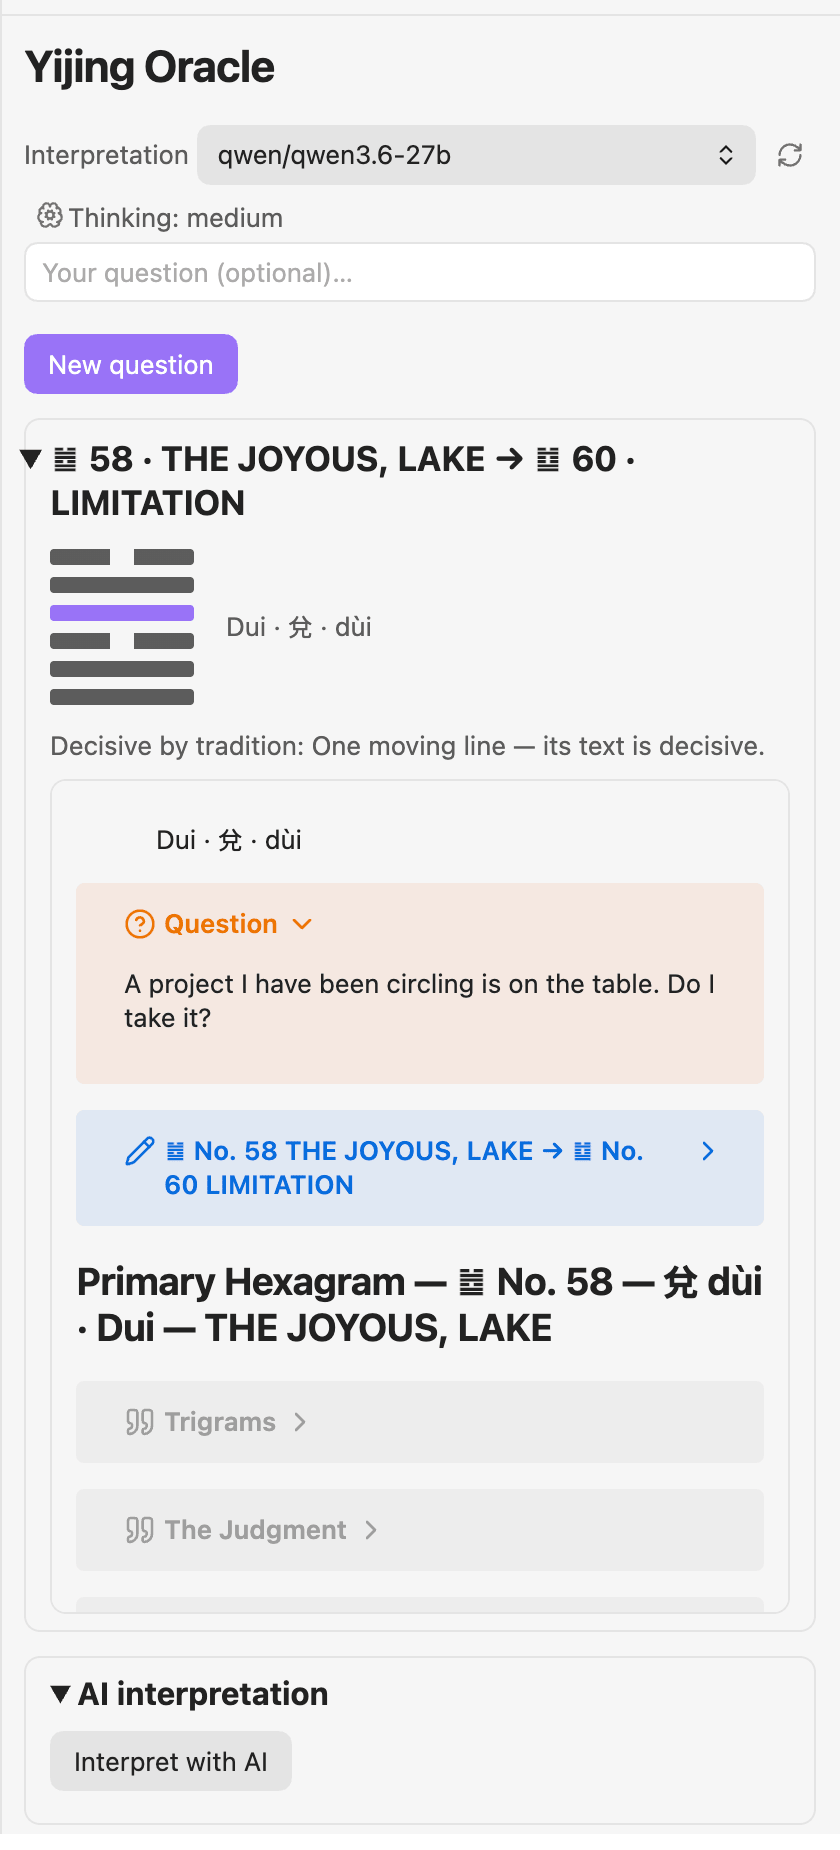
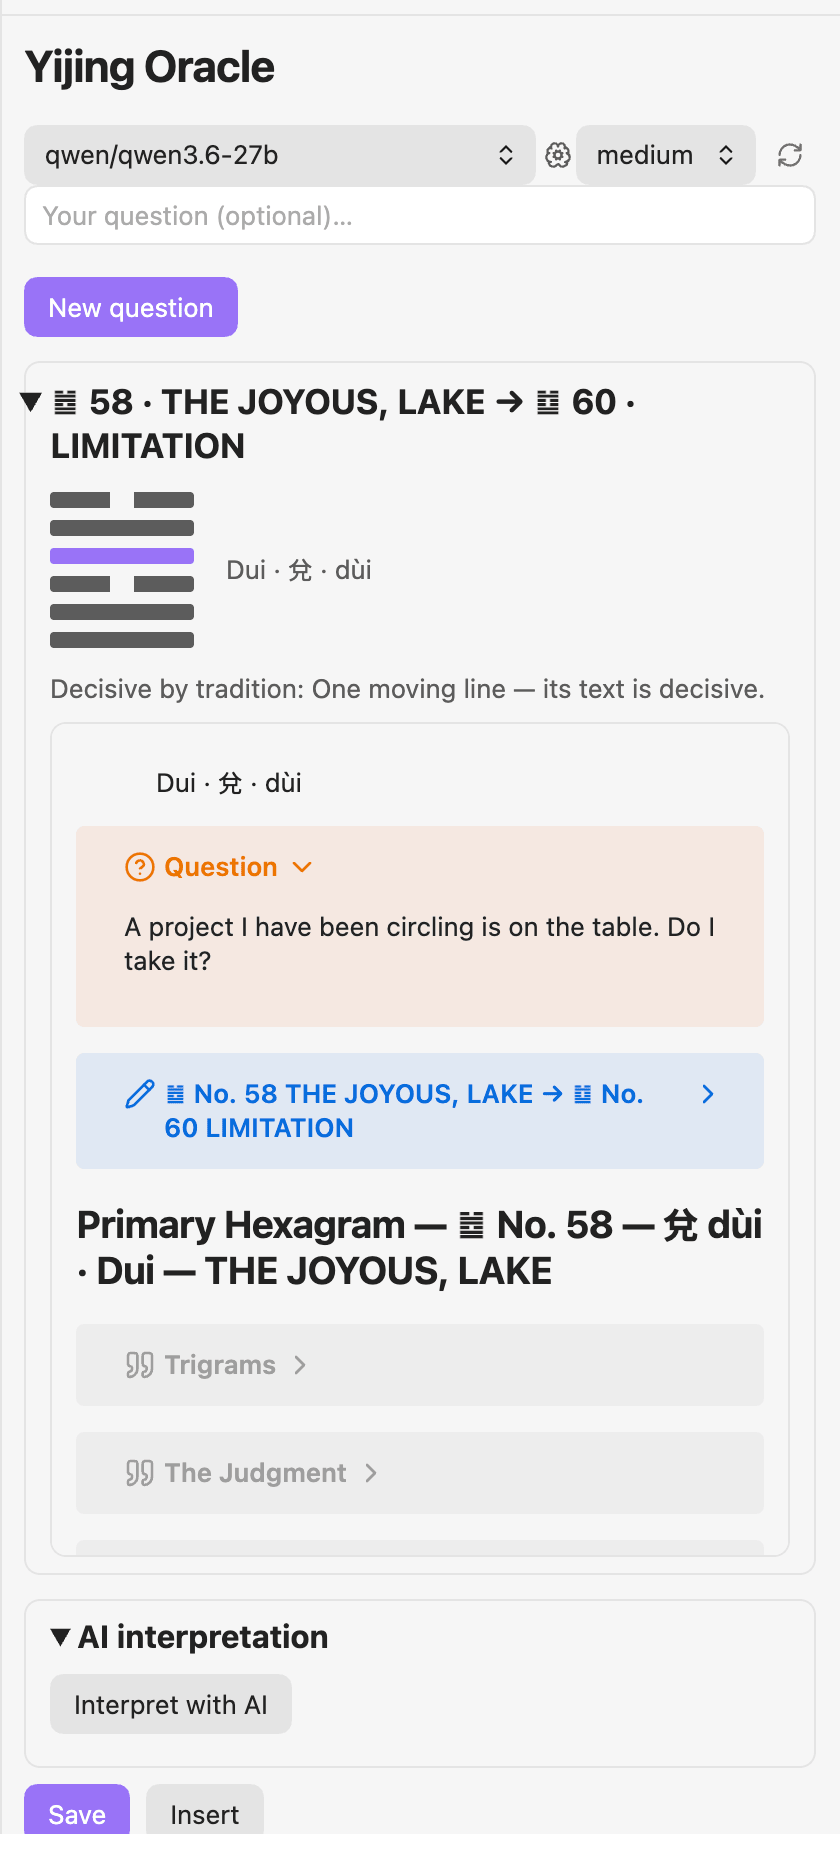
docs: Modellzeile ohne Beschriftung mit Stufen-Dropdown (Kit 0.74.0), CHANGELOG, neue hero.png und panel.png

diff --git a/AGENTS.md b/AGENTS.md
@@ -66,7 +66,7 @@ Prüfpunkte F1–F4 im GUI-Smoke messen genau das.
 
 **Die Bilderzeugung gehört `local-image-generator`, nicht diesem Plugin (Entscheidung Johannes 2026-10-13, umgesetzt in Welle 22).** `readImageGenApi` aus dem Kit (`src/vendor/kit-obsidian/capability-apis.ts`, seit Welle 24; vorher `src/obsidian/image-gen.ts`) liest den Anbieter bei jedem Zeichnen frisch aus dem Plugin-Register und prüft die Form mit `isImageGenProviderApi` (Kit-Vertrag `src/vendor/kit/image-gen-provider.ts`); Fehlertexte kommen aus `imageGenErrorText` (Kit `provider-error-texts`), nie eine Versionszahl allein und nie Interna von LIG. `view.ts` ruft `generateImage(prompt, { targetFolder })`; der Anbieter schreibt die Datei in den Vault (Zielordner: der Anhänge-Ordner, den Obsidian für eine Note im Lese-Ordner wählen würde), `CurrentCast.artwork` hält den Pfad, die Vorschau liest `vault.getResourcePath`, `reading-writer.ts` bettet die vorhandene Datei ein und kopiert nichts. Ein ungespeichertes Bild ist Wegwerfware (`discardArtwork`: neues Bild, neuer Wurf → `trashFile`), ein von einer Note eingebettetes nie. Der Kasten fehlt ohne Anbieter. `ImageSettings` ist nur noch `styleSuffix`; `normalizeImageSettings` wirft die Schlüssel der früheren Eigenbau-Anbindung (A1111, ComfyUI) beim Laden weg. Der Kit-Vertrag kennt weder Seed noch Größe noch Negativ-Prompt: Die Zusage „gleiche Frage, gleiches Bild“ der alten Anbindung gilt nicht mehr (CHANGELOG). Der Smoke fährt D/E gegen einen Fake-Anbieter im Plugin-Register (echtes PNG, kein Server, kein Modell) und D10 gegen den echten Anbieter ohne Modell (`--lig <gebauter Plugin-Ordner>`); die echte Bilderzeugung gehört in die Modell-Runde.
 
-**Die LLM-Anbindung ist die Kit-Verbindung, die API-Schlüssel liegen je Endpunkt-Zeile im Schlüsselbund, nicht in `data.json`** (seit Welle 15, 2026-10-09; vorher ein globaler Schlüssel, seit 2026-09-03 im Schlüsselbund). `src/obsidian/connection.ts` baut `createLlmConnection` (fester Modus `creative`); sie zeichnet die Settings-Abschnitte „Endpunkte“ und „Anfrage“ (die Zeile in `llm-section.ts` ist nur ihr Host, ein eigener Container, nie der Tab) und löst Quelle, Familie, Backend und Sampling-Profil auf. Aufrufer holen einen Schlüssel aus `(await llm.resolve()).config`, nicht aus den Settings. `LlmSettings.endpoints` ist eine `EndpointConfig[]`; `migrateLlmSettings` (`core/settings/migrate.ts`) hebt die Alt-Formen (Textarea-String, `string[]` plus `llm.apiKey`, Schlüsselbund-Eintrag `yijing-oracle-llm-api-key`) beim Laden, `migrateLocalEndpoints` legt die Klartext-Schlüssel sofort je Zeile in den Schlüsselbund (`yijing-oracle-ep-<id>`) — auch mit installiertem Manager. Der alte Eintrag wird nur für die alte Form gelesen und nie gelöscht; einen Downgrade-Pfad trägt das nicht (0.10 lädt die Objekt-Liste nicht). Die Verbindung merkt sich ihre Auflösung: wer `llm.endpoints` oder `llm.choice` im Code ändert, ruft danach `llm.invalidate()` (der Settings-Tab tut es); das Modell steht je Zeile, das Panel setzt es mit `llm.setModel()`, im Rückfall bei leerem Modell und über die Modellzeile (`src/obsidian/model-row.ts`, Kit `buildModelBar`, Aufgabe Deutung, Welle 27: `ModelRowSlot` gibt die Zeile vor jedem Voll-Neuzeichnen frei, `sync()` nach `starting = true` und im `finally`, `saveSettings` und der Manager-Abo-Haken ziehen sie nach; der Treiber-Selektor für die zweite Aktionsreihe darf nicht an `nth-of-type` hängen, die Zeile ist ein `div` mehr) (Welle 17: das globale Feld `llm.model` ist abgeschafft, `migrateLlmSettings` verteilt den Altwert einmal auf die Zeilen). Wer den Smoke fährt: B5–B8 messen die Migration, F7/F8 das Feld der Zeile, V1–V9 Schlüssel, Schwärzung und Neutralisierung; Z-a–Z-i die Modellzeile; das `finally` setzt alle Schlüsselbund-Einträge mit dem Präfix zurück.
+**Die LLM-Anbindung ist die Kit-Verbindung, die API-Schlüssel liegen je Endpunkt-Zeile im Schlüsselbund, nicht in `data.json`** (seit Welle 15, 2026-10-09; vorher ein globaler Schlüssel, seit 2026-09-03 im Schlüsselbund). `src/obsidian/connection.ts` baut `createLlmConnection` (fester Modus `creative`); sie zeichnet die Settings-Abschnitte „Endpunkte“ und „Anfrage“ (die Zeile in `llm-section.ts` ist nur ihr Host, ein eigener Container, nie der Tab) und löst Quelle, Familie, Backend und Sampling-Profil auf. Aufrufer holen einen Schlüssel aus `(await llm.resolve()).config`, nicht aus den Settings. `LlmSettings.endpoints` ist eine `EndpointConfig[]`; `migrateLlmSettings` (`core/settings/migrate.ts`) hebt die Alt-Formen (Textarea-String, `string[]` plus `llm.apiKey`, Schlüsselbund-Eintrag `yijing-oracle-llm-api-key`) beim Laden, `migrateLocalEndpoints` legt die Klartext-Schlüssel sofort je Zeile in den Schlüsselbund (`yijing-oracle-ep-<id>`) — auch mit installiertem Manager. Der alte Eintrag wird nur für die alte Form gelesen und nie gelöscht; einen Downgrade-Pfad trägt das nicht (0.10 lädt die Objekt-Liste nicht). Die Verbindung merkt sich ihre Auflösung: wer `llm.endpoints` oder `llm.choice` im Code ändert, ruft danach `llm.invalidate()` (der Settings-Tab tut es); das Modell steht je Zeile, das Panel setzt es mit `llm.setModel()`, im Rückfall bei leerem Modell und über die Modellzeile (`src/obsidian/model-row.ts`, Kit `buildModelBar`, Aufgabe Deutung, Welle 27: `ModelRowSlot` gibt die Zeile vor jedem Voll-Neuzeichnen frei, `sync()` nach `starting = true` und im `finally`, `saveSettings` und der Manager-Abo-Haken ziehen sie nach; der Treiber-Selektor für die zweite Aktionsreihe darf nicht an `nth-of-type` hängen, die Zeile ist ein `div` mehr) (Welle 17: das globale Feld `llm.model` ist abgeschafft, `migrateLlmSettings` verteilt den Altwert einmal auf die Zeilen). Wer den Smoke fährt: B5–B8 messen die Migration, F7/F8 das Feld der Zeile, V1–V9 Schlüssel, Schwärzung und Neutralisierung; Z-a–Z-i und Z-m die Modellzeile (der Stub braucht `kontext`, sonst erkennt das Kit kein Backend und zeichnet keine Denkstufe); das `finally` setzt alle Schlüsselbund-Einträge mit dem Präfix zurück.
 
 **Historie: `src/obsidian/secret-store.ts` war zwischen Welle 12 (2026-09-27, `76cc56f`) und
 Welle 12b (2026-09-27) eigener Code, kein Kit-Vendoring** — Grund war ein struktureller Umbau

diff --git a/docs/SMOKE.md b/docs/SMOKE.md
@@ -63,7 +63,7 @@ Er läuft im Staging-Vault `yijing-oracle` (`$STAGING_VAULTS_DIR`), nie im Arbei
 | N1–N6 | Abschnitt „Anfrage“ (Sampling-Profile, Modus creative): klappt auf · Bearbeitungen bleiben offen · gesendeter Body folgt Defaults und Einstellungen · Zurücksetzen · „Letzte Anfrage“ | — |
 | V1–V9 | Verbindung (Kit 0.53.0): eine Zeile mit Klartext-Schlüssel landet nach `resolve` im Schlüsselbund und nicht in `data.json` · der Schlüssel geht als Bearer an den Endpunkt · ein Geheimnis in der Frage geht als Platzhalter an den Draht (nicht im Klartext) und kommt in der Deutung im Original zurück · eine Antwort mit Bild-URL und Platzhalter erzeugt kein `img` · ein `dataviewjs`-Block rendert als Text · V9: eine Zeile ohne Modell bekommt das erste Listenmodell über `setModel` | — (neu mit dem Verbindungs-Tausch; Gegenproben: Neutralisierung entfernt → V5/V6 rot, `redact: false` → V3/V4 rot) |
 | V7–V8 | Gespeicherte Deutung: die Notiz trägt die entschärfte Form (```` ```text ```` statt `dataviewjs` und `mermaid`, kein Fernbild, auch nicht als Referenz-Definition mit Zeilenumbruch im Label), und der Zähler am Draht des Fake-Servers bleibt beim Speichern 0 | — (Gegenprobe code-kit 0.16.0 im Vendor: V7/V8 rot, `GET /pixel` 2) |
-| Z-a–Z-i | Modellzeile (Kit `buildModelBar`, Welle 27; Stub mit drei Modellen): genau eine Zeile direkt unter dem Titel mit `aria-label` (a) · das Dropdown listet die Modelle plus Automatisch (b) · ein Wechsel geht als Modell an den Draht (c) · gesperrt, solange die Deutung streamt, danach frei (d) · gesperrt auch im Fenster zwischen Klick und Streambeginn (ein TCP-Vorsatz verzögert jede Anfrage um 1,5 s; der Stream-Bereich ist da noch nicht gebaut) (d2) · die Denk-Steuerung steht in der Zeile, kein zweiter Knopf (e) · bei 260 px Panelbreite läuft nichts über den Rand (f) · ein Modell- und Denkstufen-Wechsel außerhalb der Zeile erscheint in ihr, ohne dass das Panel neu zeichnet (Marke am Element bleibt) (g) · nach Wurf, Deutung und Abbruch bleibt es bei einer Zeile (h) · nach einem Start ohne Endpunkt (Frühausstieg ohne Neuzeichnen) ist die Zeile wieder frei (i) | — (Welle 27; Mutationsproben unten) |
+| Z-a–Z-i, Z-m | Modellzeile (Kit `buildModelBar`, Welle 27; Stub mit drei Modellen, als LM Studio erkannt über `kontext` — ohne erkanntes Backend und ohne Familie zeichnet das Kit seit 0.73.0 keine Denkstufe): genau eine Zeile direkt unter dem Titel mit `aria-label` (a) · das Dropdown listet die Modelle plus Automatisch (b) · ein Wechsel geht als Modell an den Draht (c) · gesperrt, solange die Deutung streamt, danach frei (d) · gesperrt auch im Fenster zwischen Klick und Streambeginn (ein TCP-Vorsatz verzögert jede Anfrage um 1,5 s; der Stream-Bereich ist da noch nicht gebaut) (d2) · die Denk-Steuerung (seit Kit 0.73.0 ein Dropdown mit den Stufen des Modells) steht in der Zeile, kein zweiter Knopf (e) · bei 260 px Panelbreite läuft nichts über den Rand (f) · ein Modell- und Denkstufen-Wechsel außerhalb der Zeile erscheint in ihr, ohne dass das Panel neu zeichnet (Marke am Element bleibt) (g) · nach Wurf, Deutung und Abbruch bleibt es bei einer Zeile (h) · nach einem Start ohne Endpunkt (Frühausstieg ohne Neuzeichnen) ist die Zeile wieder frei (i) · keine sichtbare Beschriftung, der Name der Aufgabe im `aria-label`, der volle Modellname als Tooltip des Dropdowns (m, Welle 29) | — (Welle 27; Mutationsproben unten; m: `showLabel: true` → rot) |
 | Z-j–Z-l | Modellzeile **mit** dem Endpunkt-Manager (zentrale Fake-Brücke mit zwei Modellen, Welle 28): neben den Modellen und Automatisch steht „Anderer Endpunkt …“, seine Wahl ruft `app.setting.openTabById("llm-endpoint-manager")` (der Fake hat keinen Einstellungen-Tab: gemessen wird der Aufruf an einer Hülle um `open` und `openTabById`) (j) · ein Wechsel schreibt nur `choice.model`, `endpoints` bleibt unberührt, die nächste Deutung geht mit dem gewählten Modell an den Draht, Automatisch löscht die Wahl und der Draht nennt wieder das Default des Managers (k) · der Install-Weg des Echtbetriebs: Plugin ohne Manager neu laden, dann Manager einhängen und `layout-change` auslösen — die Zeile lädt seine Liste (drittes Modell, „Anderer Endpunkt“), die Marke am Element bleibt (das Panel zeichnet nicht neu) (l). Der Fake meldet nie „changed“ (`api.on` ist ein Nichts) und der Entfernen-Weg hat im Fake kein Ereignis: er steht nur als Ist-Zustand im Detail von Z-l, nicht als Prüfung | — (Welle 28; Mutationsproben unten) |
 | K-a–K-c | Linkschutz der Deutung (Kit `dom-guard`, obsidian-kit 0.70.0): im Default verlieren `obsidian://`-, `file:`- und `app:`-Links der fertigen Deutung ihr Ziel, ein https-Link behält es (a) · mit dem Schalter bleibt der `obsidian://`-Link, `file:` und `app:` gehen weiter (b) · die zwei Zeilen stehen im Einstellungen-Tab, ein Klick auf den Schalter schreibt sein Feld (c) | — (Welle 27) |
 | K-d | Darstellung eines gekappten Links in der fertigen Deutung (obsidian-kit 0.72.0, Pin-Hebung der Welle 28): berechneter Stil im Renderer, der gekappte Link (ohne `href`) trägt die Farbe der Umgebung, keinen Unterstrich, keinen Zeiger und kein Pfeil-Icon; der https-Link daneben bleibt unterstrichen mit Zeiger und Icon (Gegenprobe). Die Regel steht in `styles.css` für `.yijing-interpretation-body`, denn die Kit-Regel greift nur unter `.okit-stream-body` | — (Welle 28; Mutationsprobe unten) |

diff --git a/CHANGELOG.md b/CHANGELOG.md
@@ -6,6 +6,16 @@ All notable changes to this project are documented here. The format follows
 
 ## [Unreleased]
 
+### Changed
+- Vendored `obsidian-kit` 0.74.0 (was 0.72.0) and `code-kit` 0.40.0 (was 0.38.0). What you may notice:
+- The model row at the top of the panel is one line without a caption: the word "Interpretation" is gone, and the model name gets its width (obsidian-kit 0.73.0). A long name is shortened ("google/g…" on a phone), the full name appears as a tooltip of the dropdown (0.74.0); the task is still named for screen readers. The reload button is 44 × 44 px on a phone (0.74.0).
+- The thinking control in that row is a dropdown with the levels the model offers, with a brain icon in front, instead of the two-state toggle "Thinking: medium" (obsidian-kit 0.73.0, code-kit 0.39.0). Local models list off (where the model can be switched off), low, medium and high; Claude models on the Anthropic API list the levels of their own line (low to max, depending on the model). `xhigh` and `max` are new levels and carry a note about long answers and higher cost; the German names are "sehr hoch" and "maximal".
+- **No thinking dropdown without a recognised server or model family.** On an OpenAI-compatible server that is neither LM Studio nor Open WebUI (llama.cpp, Ollama) and whose model name carries no recognisable family, the row shows no thinking control at all; before, the two-state toggle stood there. The level you stored is still sent (obsidian-kit 0.73.0, code-kit 0.39.0).
+- **Claude:** a stored "off" now sends the model's own default level instead of "low" (more thinking, time and cost per answer until you lower the level yourself, code-kit 0.39.0). Opus 4.6, Sonnet 4.6 and Opus 4.5 count as the family Claude and no longer receive `temperature`, `top_p` and `top_k`, on every backend (also on Open WebUI, where Anthropic's compatibility layer accepts them).
+- **gpt-oss on LM Studio:** a stored "off" sends `reasoning_effort: low` instead of `minimal`, because the model's list has no "off" (code-kit 0.39.0).
+- The switch **Level picker in chat** under Settings → Request no longer does anything: the model row always shows the levels as a dropdown. It appears only if you had switched it on in an older version; the stored value stays in your data.
+- Everything else in these kit releases does not touch this plugin: the chat window (compact composer at low window height, history of past chats, new-chat icon), `chat-archive` and the 44 × 44 px buttons of the chat window are not used here, and `anthropic-wire` moved into `code-kit` (logic unchanged).
+
 ## [0.18.0] — 2026-10-26
 
 ### Changed

diff --git a/README.de.md b/README.de.md
@@ -133,7 +133,7 @@ Zwei Befehle übergehen das Panel und werfen sofort:
 
 **Zu den Endpunkten:** eine Zeile nach der anderen hinzufügen — der **erste erreichbare gewinnt**, die Reihenfolge ist also die Priorität (**Diesen Endpunkt zuerst versuchen** schiebt eine Zeile nach oben). So deckt eine Konfiguration jedes Netz ab (localhost am Schreibtisch, LAN-IP unterwegs), ohne dass etwas umgestellt werden muss. Jede Zeile hat ihren eigenen Knopf **Verbindung prüfen** mit einem Ergebnis in Klartext sowie einen eigenen, optionalen API-Schlüssel und ein optionales Modell.
 
-**Die Modellzeile** steht oben im Panel, über dem Fragefeld: das Modell der Deutung, „Automatisch“ (der Endpunkt entscheidet), ein Neu-laden-Knopf, „Anderer Endpunkt …“ (mit dem LLM Endpoint Manager öffnet das den Manager) und der Denk-Schalter, alles in einer Zeile. Ein Modell, das du dort wählst, landet in der aktiven Endpunkt-Zeile, genau wie in den Einstellungen; mit dem LLM Endpoint Manager entscheidet er, welcher Endpunkt gilt, die Zeile bietet nur seine Modelle an. Während eine Deutung startet oder läuft, ist die Zeile gesperrt; Änderungen in den Einstellungen übernimmt sie ohne neuen Wurf.
+**Die Modellzeile** steht oben im Panel, über dem Fragefeld, in einer Zeile ohne Beschriftung: ein Dropdown mit dem Modell der Deutung („Automatisch“ überlässt es dem Endpunkt, „Anderer Endpunkt …“ öffnet mit dem LLM Endpoint Manager den Manager; ein langer Modellname wird gekürzt, der volle Name steht als Tooltip), ein Dropdown mit den Denkstufen, die das Modell anbietet, und ein Neu-laden-Knopf (auf dem Handy 44 × 44 px). Ein Modell, das du dort wählst, landet in der aktiven Endpunkt-Zeile, genau wie in den Einstellungen; mit dem LLM Endpoint Manager entscheidet er, welcher Endpunkt gilt, die Zeile bietet nur seine Modelle an. Während eine Deutung startet oder läuft, ist die Zeile gesperrt; Änderungen in den Einstellungen übernimmt sie ohne neuen Wurf.
 
 **Zu den API-Schlüsseln:** der Schlüssel jeder Zeile liegt im Schlüsselbund von Obsidian (vom Betriebssystem verschlüsselt, je Gerät), nicht im Vault — er wird also nie mit den Notizen synchronisiert oder gesichert, und du trägst ihn je Zeile einmal pro Gerät ein. Für lokale Server bleibt er leer. Ein Schlüssel aus der Zeit vor 0.11 (einer für alle Zeilen) wird beim ersten Start in jede Zeile kopiert; der alte Schlüsselbund-Eintrag bleibt unangetastet. Ist der LLM Endpoint Manager installiert, kommen Endpunkte und Schlüssel von dort.
 

diff --git a/README.md b/README.md
@@ -128,7 +128,7 @@ Two commands skip the panel entirely and cast straight away:
 
 **On endpoints:** add them one row at a time — the **first reachable one wins**, so the order is the priority (**Try this endpoint first** moves a row up). That way one config covers every network (localhost at your desk, LAN IP on the go) without switching anything. Each row has its own **Test connection** button with a plain-language result, and its own optional API key and model.
 
-**The model row** sits at the top of the panel, above the question field: the model used for the interpretation, "Automatic" (the endpoint decides), a reload button, "Other endpoint …" (with the LLM Endpoint Manager installed it opens the manager) and the thinking toggle, all in one line. Choosing a model there writes it to the active endpoint row, exactly like the setting; with the LLM Endpoint Manager the manager decides which endpoint is used, and the row only offers its models. The row is locked while an interpretation starts or runs, and it follows changes you make in the settings without a new cast.
+**The model row** sits at the top of the panel, above the question field, in one line without a caption: a dropdown with the model used for the interpretation ("Automatic" lets the endpoint decide, "Other endpoint …" opens the LLM Endpoint Manager when it is installed; a long model name is shortened, the full name appears as a tooltip), a dropdown with the thinking levels the model offers, and a reload button (44 × 44 px on a phone). Choosing a model there writes it to the active endpoint row, exactly like the setting; with the LLM Endpoint Manager the manager decides which endpoint is used, and the row only offers its models. The row is locked while an interpretation starts or runs, and it follows changes you make in the settings without a new cast.
 
 **On API keys:** each row's key is kept in Obsidian's keychain (OS-encrypted, per device), not in the vault — so it is never synced or backed up along with your notes, and you enter it once per row on each device. Leave it empty for local servers. A key you set up before 0.11 (one key for all rows) is copied into every row on the first start; the old keychain entry stays untouched. With the LLM Endpoint Manager installed, the endpoints and keys come from there instead.
 

diff --git a/docs/images/README.md b/docs/images/README.md
@@ -11,7 +11,7 @@ hier **nicht** wiederholt: `_docs/readme/readme-spec.json`, Block `images`.
 | Datei | Klasse | referenziert von | muss zeigen |
 |---|---|---|---|
 | `hero.png` | hero | `README.md`, `README.de.md` | Das ganze Fenster: eine gespeicherte Befragung als Notiz im Lesemodus, rechts das Orakel-Panel mit demselben Wurf und der Modellzeile. Die Aussage ist die Verbindung — Orakel **und** Vault-Notiz, nicht nur ein Panel. |
-| `panel.png` | detail | `README.md`, `README.de.md` | Das Panel allein: die Modellzeile (Modell-Dropdown des Endpunkts und Denk-Schalter) unter dem Titel, Frage-Feld, Wurf-Knopf, das Hexagramm als sechs Linien, Name und Zeichen, die Weissagungs-Vorschau, Speichern-Knöpfe. Hoch und schmal — als Vorschaubild eingebettet. |
+| `panel.png` | detail | `README.md`, `README.de.md` | Das Panel allein: die Modellzeile (Modell-Dropdown des Endpunkts, Denkstufen-Dropdown, Neu laden; ohne Beschriftung) unter dem Titel, Frage-Feld, Wurf-Knopf, das Hexagramm als sechs Linien, Name und Zeichen, die Weissagungs-Vorschau, Speichern-Knöpfe. Hoch und schmal — als Vorschaubild eingebettet. |
 | `reading-note.png` | feature | `README.md`, `README.de.md` | Die erzeugte Notiz im Lesemodus, so weit sichtbar, dass die Gliederung erkennbar ist: Frage, Überblick, Wandlung, die Callouts für Ursprung und wandelnde Linien. |
 | `interpretation.png` | feature | `README.md`, `README.de.md` | Den Deutungs-Kasten im Panel mit einer **fertigen** Antwort eines lokalen Modells, darüber die aufklappbare Denkspur. Belegt, dass die Deutung im Panel lebt und nicht in einem Modal. |
 | `artwork.png` | feature | `README.md`, `README.de.md` | Den Bildmeditations-Kasten mit einem **echt erzeugten** Bild, darunter den Szenen-Satz und den Knopf zum Neu-Generieren. |

diff --git a/docs/getting-started.md b/docs/getting-started.md
@@ -31,6 +31,6 @@ Two commands cast straight away, without a question: **Cast a reading into a new
 ## Where to go next
 
 - Choose the reading language, the classic (Wilhelm) or gender-neutral register and what goes into the note: **Settings → Yijing Oracle**, sections *General*, *Note & storage* and *Note content*.
-- Add an optional local AI interpretation: enter an OpenAI-compatible server under **AI interpretation → Endpoints**. Without CORS on the server the interpretation arrives in one piece instead of streaming, see [Troubleshooting](troubleshooting.md#interpretation-failed). The model and the thinking level are then one click away in the model row at the top of the panel.
+- Add an optional local AI interpretation: enter an OpenAI-compatible server under **AI interpretation → Endpoints**. Without CORS on the server the interpretation arrives in one piece instead of streaming, see [Troubleshooting](troubleshooting.md#interpretation-failed). The model and the thinking level are then one dropdown away in the model row at the top of the panel.
 - Add an optional meditation image: [Set up image generation](image-generation.md).
 - Something went wrong? [Troubleshooting](troubleshooting.md).

diff --git a/docs/troubleshooting.md b/docs/troubleshooting.md
@@ -30,11 +30,11 @@ Local servers almost always need a port, for example `http://127.0.0.1:1234`. Wi
 
 ## The model row is greyed out
 
-> The model dropdown, the reload button and the thinking toggle at the top of the panel cannot be used.
+> The model dropdown, the thinking-level dropdown and the reload button at the top of the panel cannot be used.
 
 **Cause:** an interpretation is starting or running; the row is locked until it ends. A start that stops early (no endpoint, no model) frees it again at once.
 
-**Fix:** wait for the interpretation or press **Cancel**. For a Claude entry the thinking toggle offers no "off" and reads "Thinking: low" or higher: Claude models always think, so the plugin cannot switch it off.
+**Fix:** wait for the interpretation or press **Cancel**. For a Claude entry the thinking-level dropdown has no "off" and starts at "low": Claude models always think, so the plugin cannot switch it off. A model the plugin cannot place on a server it cannot identify (no LM Studio, no Open WebUI, no recognisable family in the name) gets no thinking-level dropdown at all.
 
 ## The interpretation appears all at once instead of streaming
 
